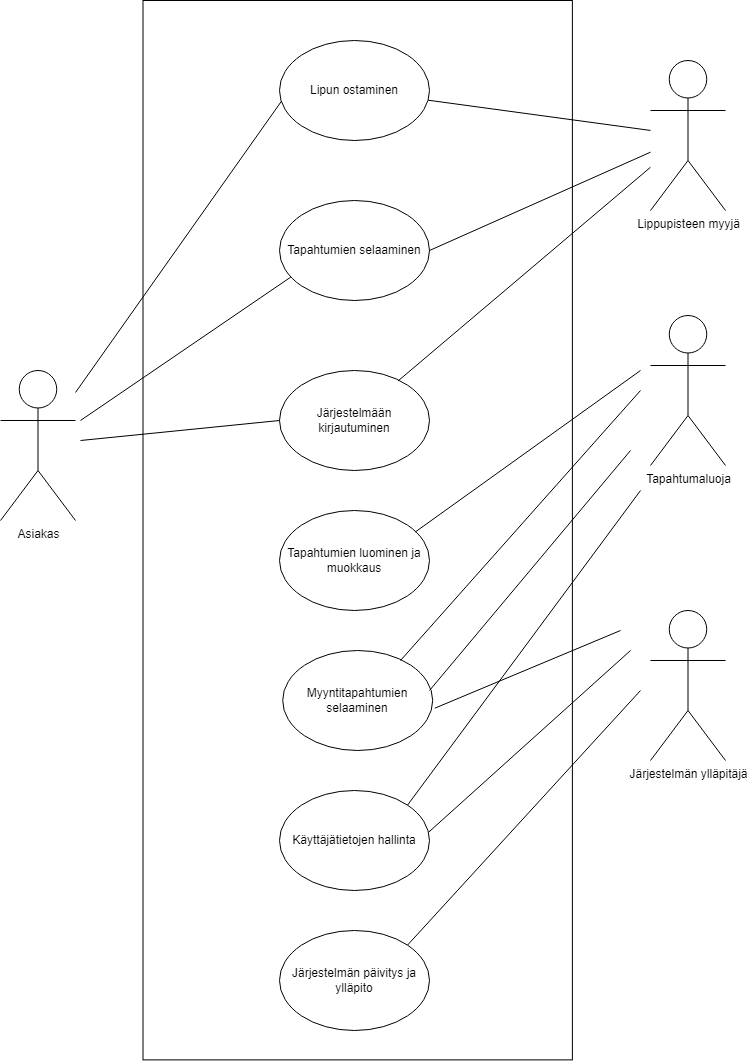
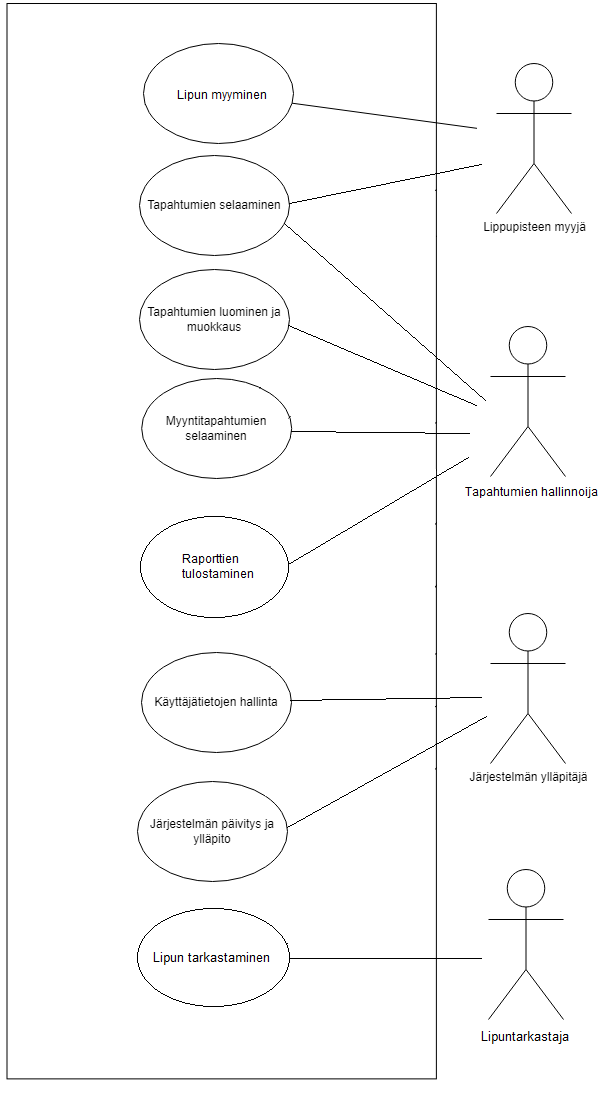
Päivitetty Projektidokumentaatio.md.
Päivitetty Projektidokumentaatiosta seuraavia osioita:
Johdanto, Järjestelmän määrittely ja Käyttöliittymä.
Lisätty kuvia referenssi front end clientien esittelyä varten.

diff --git a/Dokumentit/Projektidokumentaatio.md b/Dokumentit/Projektidokumentaatio.md
@@ -1,77 +1,98 @@
-# _TicketGuru_
+# Lipunmyyntijärjestelmä projektidokumentaatio
 
 Tiimi: Satu Kulta, Ville Pajukangas, Ali Romar, Tuukka Teilas
 
-## _Johdanto_
+## Johdanto
 
-TicketGuru on lipunmyyntijärjestelmä, jonka tilaajana toimii lipputoimisto. Järjestelmä mahdollistaa lipunmyynnin myyntipisteessä, jossa lipppupisteen myyjä voi myydä ja tulostaa liput asiakkaille. Järjestelmän avulla toimisto voi määritellä myytävät tapahtumat ja hallita sekä seurata lippujen myyntiä. Alustavasti järjestelmä tarjoaa lippujen myynnin myyntipisteessä, ja ennakkomyynnin päättyessä loput liput tulostetaan myytäväksi ovella. Tulostettavassa lipussa on skannattava tarkastuskoodi, joka helpottaa lippujen tarkastusta ovella.
+Asiakasyrityksenä toiminut lipputoimisto on tilannut lipunmyyntijärjestelmän backend toteutuksen sekä MVP esimerkki toteutukset lipunmyyntiä ja lipuntarkastusta toteuttavista front end clienteista. Tilattu järjestelmä mahdollistaa lipunmyynnin myyntipisteessä, jossa lippupisteen myyjä voi myydä ja tulostaa liput asiakkaille. Järjestelmän avulla toimisto/tapahtumia hallinnoiva taho voi määritellä myytävät tapahtumat aikoineen, paikkoineen sekä lipputyyppineen ja hallita sekä seurata lippujen myyntiä. Järjestelmä mahdollistaa myös ennakkomyynnin päättyessä loppujen lippujen tulostamisen myytäväksi ovella. Tulostettavassa lipussa on yksilöllinen tarkastuskoodi. Tämä koodi voidaan muuttaa esimerkiksi QR-koodiksi, joka helpottaa lippujen tarkastusta ovella. 
 
-_Asiakas_ on lipputoimisto, ja järjestelmän tarkoitus on vastata heidän tarpeisiinsa lipunmyynnissä ja tapahtumien hallinnassa. Jatkokehityksen suunnitelmissa on verkkokauppa, josta lipputoimiston asiakkaat voivat itse ostaa lippuja.
-
-Järjestelmän palvelinpuolen toiminnot toteutetaan Javalla Spring Boot -kehystä käyttäen. Tämä valinta mahdollistaa tehokkaan ja joustavan palvelimen toiminnallisuuden rakentamisen, joka tukee tarvittavia REST-palveluita ja tietokantatoiminnallisuuksia. Tietokantana käytetään MariaDb:tä.
+Järjestelmän palvelinpuolen toiminnot on toteutettu Javalla Spring Boot -kehystä käyttäen. Tämä valinta mahdollistaa tehokkaan ja joustavan palvelimen toiminnallisuuden rakentamisen, joka tukee tarvittavia REST-palveluita ja tietokantatoiminnallisuuksia. Tietokantana käytetään MySQL:ää.
 
 Käyttöliittymä on selainpohjainen React-sovellus, joka tarjoaa nykyaikaisen ja responsiivisen käyttökokemuksen.
 
-## _Järjestelmän määrittely_
-
-_Määrittelyssä järjestelmää tarkastellaan käyttäjän näkökulmasta. Järjestelmän
-toiminnot hahmotellaan käyttötapausten tai käyttäjätarinoiden kautta, ja kuvataan järjestelmän
-käyttäjäryhmät._
+## Järjestelmän määrittely
 
 ### Käyttäjäryhmät
 
-_- Lyhyt kuvaus käyttäjäryhmistä (rooleista)_
+- Tapahtumien hallinnoija/"toimisto"
+
+  - Yrityksen sisäinen, toimistolla tai etänä työskentelevä käyttäjä, joka pystyy luomaan lipunmyyntijärjestelmään uusia tapahtumia ja määrittelemään niiden tiedot sekä muokkaamaan olemassa olevia tapahtumia ja muodostamaan erilaisia raportteja tapahtumista ja niiden lipunmyynnistä.
 
 - Lippupisteen myyjä
 
-  - Fyysisessä lipunmyyntipisteessä työskentelevä henkilö, joka käyttää lipunmyyntijärjestelmän myyntipuolta etäyhteydellä erillisen päätelaitteen avulla.
+  - Fyysisessä lipunmyyntipisteessä työskentelevä henkilö, joka käyttää lipunmyyntijärjestelmän myyntipuolta etäyhteydellä erillisen päätelaitteen avulla. Myy tapahtumiin lippuja.
 
-- Tapahtumien hallinnoija/"toimisto"
+- Lipuntarkastaja
 
-  - Yrityksen sisäinen, toimistolla tai etänä työskentelevä käyttäjä, joka pystyy luomaan lipunmyyntijärjestelmään uusia tapahtumia ja määrittelemään niiden tiedot.
+  - Fyysisesti tapahtuman sisäänkäynnillä työskentelevä henkilö, joka tarkastaa tapahtumaan saapuvan asiakkaan lipun ja merkkaa sen käytetyksi.
 
 - Järjestelmän ylläpitäjä
-  - Yrityksen sisäinen tai ulkopuolinen henkilö, joka ylläpitää järjestelmän toimivuutta ja mahdollisesti päivittää sitä.
 
-**Tämä rooli on luotu jatkokehitystä ajatellen, jos/kun järjestelmään lisätään verkkokauppa.**
+  - Yrityksen sisäinen tai ulkopuolinen henkilö, joka ylläpitää järjestelmän toimivuutta ja mahdollisesti päivittää sitä. Hallinnoi käyttäjätietoja.
 
-- **Verkkokauppa asiakas**
-  - **Yrityksen ulkopuolinen henkilö, joka haluaa ostaa lipun tai lippuja yhteen tai useampaan tapahtumaan verkkokaupan kautta.**
+### Käyttötapauskaavio
 
-**Tämä rooli on luotu jatkokehitystä ajatellen, jos/kun järjestelmään lisätään verkkokauppa.**
-
-### _Käyttötapauskaavio_
-
-- _Käyttäjäroolit ja roolien tarvitsemat toiminnot, esim. käyttötapauskaaviona
-  (use case diagram) tai käyttäjätarinoina._
+Alla olevassa käyttötapauskaaviossa kuvataan järjestelmän käyttäjät ja yleisimmät perustoiminnot.
 
 ![Käyttötapauskaavio](/Dokumentit/Kaaviot//käyttötapauskaavio.png "Käyttötapauskaavio")
 
-### _Käyttötapauskuvaukset_
+### Käyttäjätarinat
 
-- _Lyhyt kuvaus käyttötapauksista tai käyttäjätarinat_
+- Järjestelmän tilaajana haluan pystyä luomaan ja muokkaamaan tapahtumia
 
-### _Käyttäjätarinat_
-
-_Kuvauksissa kannattaa harkita, mikä on toteuttajalle ja asiakkaalle oleellista
-tietoa ja keskittyä siihen._
+- Järjestelmän tilaajana haluan pystyä myymään lippuja järjestämiini tapahtumiin
 
 - Tapahtumien hallinnoijana haluan pystyä määrittelemään eri käyttäjäryhmille eri hintaisia lippuja, jotta voimme kohdentaa markkinointia
+
 - Järjestelmän tilaajana haluan pystyä luomaan myymättä jääneet liput, jotta ne voidaan myydä tapahtumapaikan ovella
+
 - Markkinointijohtajana haluan pystyä tulostamaan myyntiraportteja, jotta voin käyttää tätä dataa tulevien tapahtumien suunnitteluun
-- Järjestelmän tilaajana haluan pystyä luomaan ja muokkaamaan tapahtumia
-- Järjestelmän tilaajana haluan pystyä myymään lippuja järjestämiini tapahtumiin
+
 - Järjestelmän tilaajana haluan voida perustaa uusia käyttäjiä, jotta uudet työntekijät pääsevät käyttämään järjestelmää
+
 - Järjestelmän tilaajana haluan voida muokata käyttäjän tietoja, jotta työntekijöiden tiedot pysyvät ajantasalla
+
 - Järjestelmän tilaajana haluan voida poistaa käyttäjiä, jotta tietoturva säilyy työsuhteiden päätyttyä
 
+## Käyttöliittymä
+
+![Käyttöliittymäkaavio](/Dokumentit/Kaaviot/käyttöliittymäkaavio.png "Käyttöliittymäkaavio")
+
+Ylläoleva käyttöliittymäkaavio perustuu asiakkaan toimittamiin wireframe malleihin, eikä vastaa mitään toteutettua front end clientia. Näitä wireframe malleja on kuitenkin käytetty pohjana tuotteen palvelinpuolen toteutusta suunniteltaessa ja toteutettaessa.
+
+Seuraavista alaotsikoista löytyy käyttöliittymäkuvia sekä ohjeistusta lipunmyynnistä, että lipuntarkastuksesta tehtyihin referenssitoteutuksiin. Alla on myös molempien toteutuksien yhteinen kirjautumissivu, josta on mahdollista valita lipuntarkastuksen (Gate Guard) ja -myynnin paikallinen tai verkossa erillisellä palvelimella pyörivä toteutus.
+
+![FrontClientsMenu](/Dokumentit/Kaaviot/Kuvat/FrontClientsMenu.JPG "Referenssitoteutusten päävalikko") 
+
+### Lipunmyynti
+
+![LipunmyyntiLogin](/Dokumentit/Kaaviot/Kuvat/LipunmyyntiLogin.JPG "Login")  
+Lipunmyynnin kirjautumissivu.
+
+---
+![LipunmyyntiMain](/Dokumentit/Kaaviot/Kuvat/LipunmyyntiMain.JPG "Lipunmyynnin live version pääsivu")  
+Lipunmyynnin live version pääsivu.
+Täältä käyttäjä(lipunmyyjä) näkee saatavilla olevat tapahtumat, niiden lippumärät sekä muut tarpeelliset tiedot. Alasvetovalikoista voi valita tapahtumaan liput lipputyypeittäin ja myydä ne alareunan Tallenna -painikkeella. Palaa -painike nollaa käyttöliittymän tilan.
+
+---
+![LipunmyyntiMyyntitapahtuma](/Dokumentit/Kaaviot/Kuvat/LipunmyyntiMyyntitapahtuma.JPG "Myyntitapahtuman esimerkki")  
+Esimerkki onnistuneesta myyntitapahtumasta. Koodi on kullekin lipulle luotava yksilöllinen UUID tunniste, jota voi hyödyntää esimerkiksi QR-koodin generoimisessa lipuntarkastusta varten.
 
 
-## _Käyttöliittymä_
 
-![Käyttöliittymäkaavio](/Dokumentit/Kaaviot/käyttöliittymäkaavio.png "käyttöliittymäkaavio")
+### Lipuntarkastus (Gate Guard)
 
-Ylläolevassa kaaviossa on kuvattu lipunmyyntijärjestelmän navigointi. Itse navipalkki vielä tästä versiosta puuttuu kokonaan. Se tullaa lisäämään projektin edetessä. Kaaviosta löytyvien kuvien perusteella kaikille applikaation sivuille on pääsy paitsi lippujen myynti sivuille. Tämä hoidettaisiin juurikin edellä mainitulla yläpalkilla.
+![LipuntarkastusMain](/Dokumentit/Kaaviot/Kuvat/LipuntarkastusMain.JPG "Lipuntarkastus pääsivu")  
+Lipuntarkastuksen pääsivu. Kenttään syötetään validi lippukoodi, jota verrataan tietokannasta löytyviin koodeihin.  
+
+---
+![LipuntarkastusLippu](/Dokumentit/Kaaviot/Kuvat/LipuntarkastusLippu.JPG "Lipun tiedot")  
+Kun kenttään on syötetty validi lippukoodi ja painettu Check -painiketta, järjestelmä palauttaa lipun tiedot ja antaa mahdollisuuden merkitä lippu käytetyksi painamalla Merkitse käytetyksi -painiketta.  
+
+---
+![LipuntarkastusKaytetty](/Dokumentit/Kaaviot/Kuvat/LipuntarkastusKaytetty.JPG "Lippu käytetty")  
+Kun lippu on merkitty käytetyksi, järjestelmä ilmoittaa sen ja antaa mahdollisuuden syöttää seuraavan lipun koodi.
+
 
 ## _Tietokanta_
 
